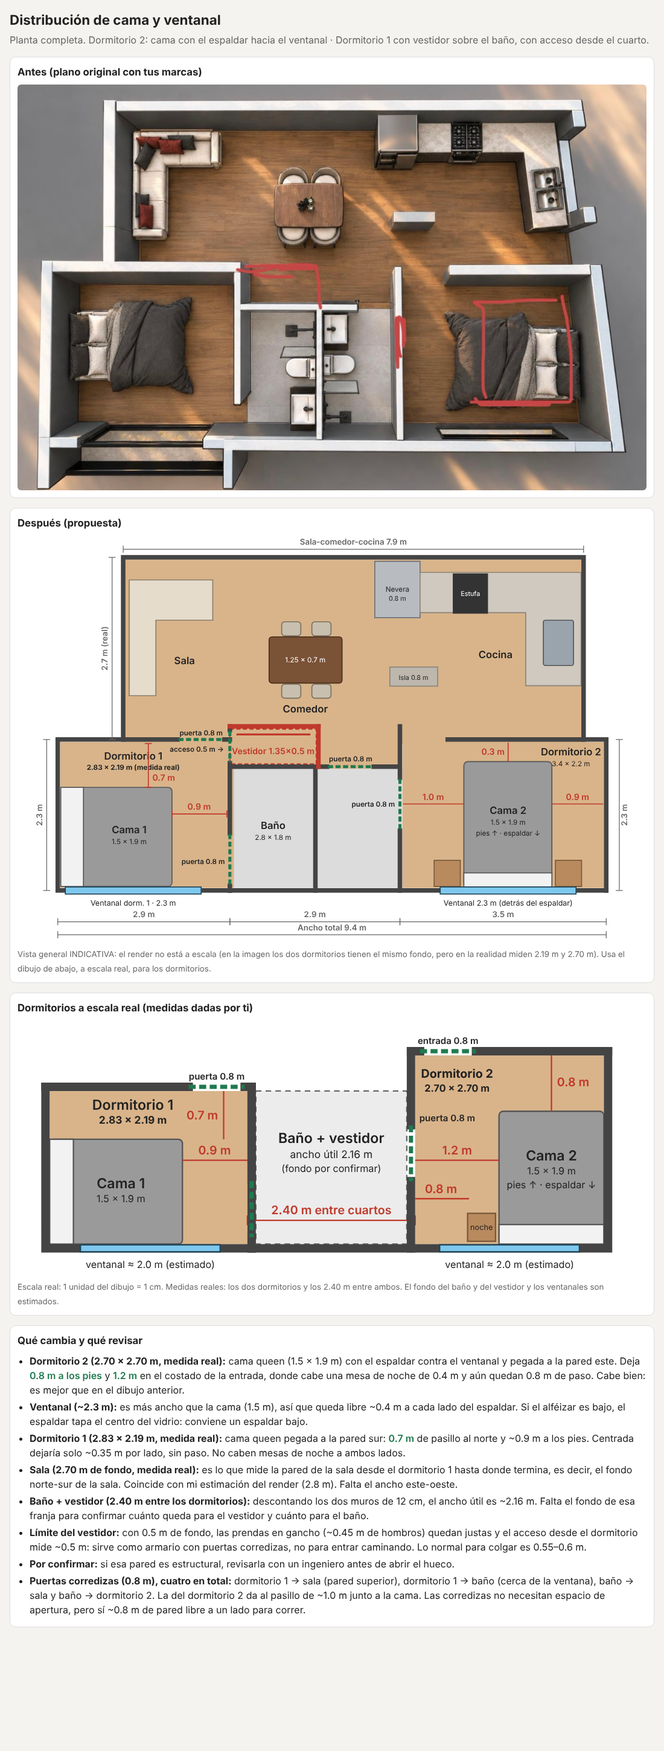
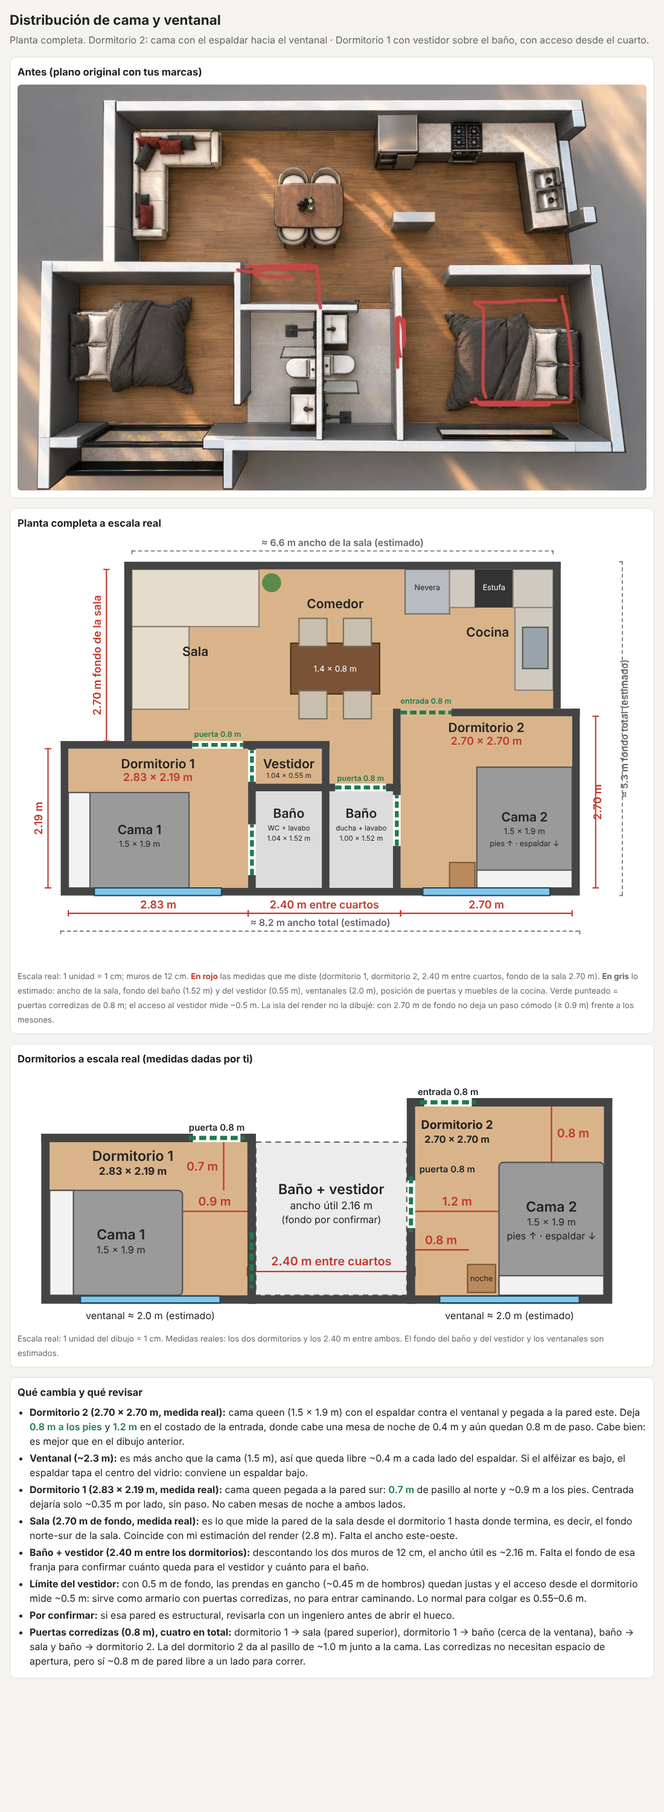
Planta completa a escala real con las medidas dadas (dormitorios, 2.40 m entre cuartos, sala 2.70 m)
Claude-Session: https://claude.ai/code/session_01FjBeNf4WjH2KP9gBJAno4x

Changed region(s): [[0.0309, 0.0, 0.9891, 0.931]]

diff --git a/index.html b/index.html
@@ -34,6 +34,8 @@
   .newwall { stroke: var(--new); stroke-width: 9; stroke-linecap: square; fill: none; }
   .dim { stroke: var(--new); stroke-width: 2; fill: none; }
   .dimt { fill: var(--new); font-size: 17px; font-weight: 600; }
+  .dimg { stroke: var(--muted); stroke-width: 1.5; stroke-dasharray: 6 4; fill: none; }
+  .dimgt { fill: var(--muted); font-weight: 600; stroke: none; }
   .dm { stroke: var(--muted); stroke-width: 1.5; fill: none; }
   .dmt { fill: var(--muted); font-size: 16px; font-weight: 600; stroke: none; }
   .lbl { font-size: 20px; font-weight: 600; }
@@ -50,136 +52,125 @@
   </section>
 
   <section class="card">
-    <h2>Después (propuesta)</h2>
-    <svg viewBox="40 8 1250 815" role="img" aria-label="Planta completa con la propuesta de distribución a la escala real del dormitorio 1">
-      <!-- Pisos -->
-      <rect x="252" y="54" width="913" height="368" fill="var(--floor)"/>
-      <rect x="462" y="410" width="338" height="64" fill="var(--floor)"/>
-      <rect x="125" y="417" width="347" height="290" fill="var(--floor)"/>
-      <rect x="470" y="470" width="335" height="237" fill="var(--bath)"/>
-      <rect x="805" y="417" width="402" height="290" fill="var(--floor)"/>
-
-      <!-- Sala: sofá en L -->
-      <path d="M262 95 H428 V175 H315 V325 H262 Z" fill="#e6dccb" stroke="#8a7d6a" stroke-width="2"/>
-      <text x="372" y="262" text-anchor="middle" class="lbl">Sala</text>
-      <!-- Comedor -->
-      <rect x="540" y="208" width="145" height="92" rx="6" fill="#7a5236" stroke="#4a2f1a" stroke-width="2"/>
-      <text x="612" y="259" text-anchor="middle" font-size="14" style="fill:#fff">1.25 × 0.7 m</text>
-      <rect x="565" y="178" width="38" height="28" rx="6" fill="#c9bfae" stroke="#7a6f5e" stroke-width="2"/>
-      <rect x="625" y="178" width="38" height="28" rx="6" fill="#c9bfae" stroke="#7a6f5e" stroke-width="2"/>
-      <rect x="565" y="302" width="38" height="28" rx="6" fill="#c9bfae" stroke="#7a6f5e" stroke-width="2"/>
-      <rect x="625" y="302" width="38" height="28" rx="6" fill="#c9bfae" stroke="#7a6f5e" stroke-width="2"/>
-      <text x="612" y="358" text-anchor="middle" class="lbl">Comedor</text>
-      <!-- Cocina -->
-      <rect x="750" y="58" width="90" height="112" fill="#b8bcc0" stroke="#6b7076" stroke-width="2"/>
-      <text x="795" y="118" text-anchor="middle" font-size="14">Nevera</text>
-      <text x="795" y="136" text-anchor="middle" font-size="13">0.8 m</text>
-      <path d="M840 80 H1160 V305 H1050 V160 H840 Z" fill="#cfc9bf" stroke="#8a847a" stroke-width="2"/>
-      <rect x="905" y="82" width="70" height="80" fill="#333"/>
-      <text x="940" y="127" text-anchor="middle" font-size="13" style="fill:#fff">Estufa</text>
-      <rect x="1085" y="175" width="60" height="90" rx="4" fill="#9aa4ad" stroke="#555" stroke-width="2"/>
-      <rect x="780" y="268" width="95" height="38" fill="#bdb7ad" stroke="#8a847a" stroke-width="2"/>
-      <text x="827" y="293" text-anchor="middle" font-size="13">Isla 0.8 m</text>
-      <text x="990" y="250" text-anchor="middle" class="lbl">Cocina</text>
-
-      <!-- Vestidor -->
-      <rect x="462" y="391" width="172" height="70" fill="var(--floor)"/>
-      <rect x="462" y="391" width="172" height="70" fill="none" stroke="var(--new)" stroke-width="3" stroke-dasharray="8 5"/>
-      <line x1="475" y1="402" x2="622" y2="402" stroke="var(--new)" stroke-width="4"/>
-      <text x="548" y="441" text-anchor="middle" class="dimt" font-size="11">Vestidor 1.35×0.5 m</text>
-
-      <!-- Dormitorio 1 (medida real 2.83 × 2.19 m): cama queen contra la pared sur -->
-      <rect x="126" y="507" width="221" height="197" rx="8" fill="#9a9a9a" stroke="#555" stroke-width="2"/>
-      <rect x="126" y="507" width="45" height="197" fill="#f2f2f2" stroke="#555" stroke-width="2"/>
-      <text x="262" y="598" text-anchor="middle" class="lbl">Cama 1</text>
-      <text x="262" y="620" text-anchor="middle" font-size="14">1.5 × 1.9 m</text>
-      <text x="270" y="452" text-anchor="middle" class="lbl">Dormitorio 1</text>
-      <text x="270" y="472" text-anchor="middle" font-size="14" font-weight="700">2.83 × 2.19 m (medida real)</text>
-      <line x1="300" y1="420" x2="300" y2="507" class="dim"/>
-      <line x1="293" y1="420" x2="307" y2="420" class="dim"/><line x1="293" y1="507" x2="307" y2="507" class="dim"/>
-      <text x="308" y="494" class="dimt" font-size="15">0.7 m</text>
-      <line x1="347" y1="560" x2="456" y2="560" class="dim"/>
-      <line x1="347" y1="553" x2="347" y2="567" class="dim"/><line x1="456" y1="553" x2="456" y2="567" class="dim"/>
-      <text x="401" y="552" text-anchor="middle" class="dimt" font-size="15">0.9 m</text>
-
-      <!-- Baño -->
-      <text x="548" y="590" text-anchor="middle" class="lbl">Baño</text>
-      <text x="548" y="611" text-anchor="middle" font-size="14">2.8 × 1.8 m</text>
-
-      <!-- Dormitorio 2: cama queen girada, espaldar hacia el ventanal -->
-      <rect x="868" y="652" width="52" height="52" fill="#b98a5e" stroke="#7a5a3a" stroke-width="2"/>
-      <rect x="1109" y="652" width="52" height="52" fill="#b98a5e" stroke="#7a5a3a" stroke-width="2"/>
-      <rect x="927" y="456" width="175" height="249" rx="8" fill="#9a9a9a" stroke="#555" stroke-width="2"/>
-      <rect x="927" y="677" width="175" height="28" fill="#f2f2f2" stroke="#555" stroke-width="2"/>
-      <text x="1015" y="560" text-anchor="middle" class="lbl">Cama 2</text>
-      <text x="1015" y="582" text-anchor="middle" font-size="14">1.5 × 1.9 m</text>
-      <text x="1015" y="603" text-anchor="middle" font-size="14">pies ↑ · espaldar ↓</text>
-      <text x="1140" y="444" text-anchor="middle" class="lbl">Dormitorio 2</text>
-      <text x="1140" y="465" text-anchor="middle" font-size="14">3.4 × 2.2 m</text>
-      <line x1="806" y1="540" x2="927" y2="540" class="dim"/><line x1="1102" y1="540" x2="1204" y2="540" class="dim"/>
-      <text x="866" y="532" text-anchor="middle" class="dimt">1.0 m</text>
-      <text x="1153" y="532" text-anchor="middle" class="dimt">0.9 m</text>
-      <line x1="1015" y1="418" x2="1015" y2="456" class="dim"/>
-      <text x="1008" y="442" text-anchor="end" class="dimt" font-size="15">0.3 m</text>
-
-      <!-- Paredes -->
-      <g class="wall">
-        <polyline points="250,412 250,50 1165,50 1165,412"/>
-        <polyline points="120,412 120,712 462,712"/>
-        <line x1="120" y1="412" x2="358" y2="412"/>
-        <line x1="451" y1="412" x2="462" y2="412"/>
-        <line x1="462" y1="386" x2="462" y2="393"/>
-        <line x1="462" y1="459" x2="462" y2="598"/>
-        <line x1="462" y1="703" x2="462" y2="712"/>
-        <line x1="462" y1="466" x2="655" y2="466"/>
-        <line x1="748" y1="466" x2="795" y2="466"/>
-        <line x1="632" y1="466" x2="632" y2="712"/>
-        <line x1="800" y1="386" x2="800" y2="488"/>
-        <line x1="800" y1="593" x2="800" y2="712"/>
-        <line x1="462" y1="712" x2="1210" y2="712"/>
-        <line x1="1210" y1="412" x2="1210" y2="712"/>
-        <line x1="895" y1="412" x2="1210" y2="412"/>
-      </g>
-      <g class="newwall">
-        <line x1="462" y1="386" x2="638" y2="386"/>
-        <line x1="638" y1="386" x2="638" y2="466"/>
-      </g>
-
-      <!-- Ventanales (2.3 m) -->
-      <rect x="880" y="705" width="270" height="14" fill="#7ec8ee" stroke="#245" stroke-width="2"/>
-      <text x="1015" y="742" text-anchor="middle" font-size="15">Ventanal 2.3 m (detrás del espaldar)</text>
-      <rect x="135" y="705" width="270" height="14" fill="#7ec8ee" stroke="#245" stroke-width="2"/>
-      <text x="270" y="742" text-anchor="middle" font-size="15">Ventanal dorm. 1 · 2.3 m</text>
-
-      <!-- Puertas corredizas (0.8 m reales) -->
-      <g stroke="var(--ok)" stroke-width="6" stroke-dasharray="10 5">
-        <line x1="360" y1="412" x2="449" y2="412"/>
-        <line x1="657" y1="466" x2="746" y2="466"/>
-        <line x1="462" y1="600" x2="462" y2="701"/>
-        <line x1="800" y1="490" x2="800" y2="591"/>
-        <line x1="462" y1="395" x2="462" y2="457"/>
-      </g>
-      <g font-size="14" font-weight="600" style="fill:var(--ok)">
-        <text x="405" y="404" text-anchor="middle">puerta 0.8 m</text>
-        <text x="702" y="456" text-anchor="middle">puerta 0.8 m</text>
-        <text x="452" y="660" text-anchor="end">puerta 0.8 m</text>
-        <text x="790" y="545" text-anchor="end">puerta 0.8 m</text>
-        <text x="450" y="436" text-anchor="end">acceso 0.5 m →</text>
-      </g>
-
-      <!-- Cotas generales -->
-      <g>
-      <line x1="250" y1="34" x2="1165" y2="34" class="dm"/><line x1="250" y1="27" x2="250" y2="41" class="dm"/><line x1="1165" y1="27" x2="1165" y2="41" class="dm"/><text x="707.5" y="25" text-anchor="middle" class="dmt">Sala-comedor-cocina 7.9 m</text>
-      <line x1="228" y1="50" x2="228" y2="412" class="dm"/><line x1="221" y1="50" x2="235" y2="50" class="dm"/><line x1="221" y1="412" x2="235" y2="412" class="dm"/><text transform="translate(219,231.0) rotate(-90)" text-anchor="middle" class="dmt">2.7 m (real)</text>
-      <line x1="98" y1="412" x2="98" y2="712" class="dm"/><line x1="91" y1="412" x2="105" y2="412" class="dm"/><line x1="91" y1="712" x2="105" y2="712" class="dm"/><text transform="translate(89,562.0) rotate(-90)" text-anchor="middle" class="dmt">2.3 m</text>
-      <line x1="1236" y1="412" x2="1236" y2="712" class="dm"/><line x1="1229" y1="412" x2="1243" y2="412" class="dm"/><line x1="1229" y1="712" x2="1243" y2="712" class="dm"/><text transform="translate(1252,562.0) rotate(-90)" text-anchor="middle" class="dmt">2.3 m</text>
-      <line x1="120" y1="774" x2="462" y2="774" class="dm"/><line x1="120" y1="767" x2="120" y2="781" class="dm"/><line x1="462" y1="767" x2="462" y2="781" class="dm"/><text x="291.0" y="765" text-anchor="middle" class="dmt">2.9 m</text>
-      <line x1="462" y1="774" x2="800" y2="774" class="dm"/><line x1="462" y1="767" x2="462" y2="781" class="dm"/><line x1="800" y1="767" x2="800" y2="781" class="dm"/><text x="631.0" y="765" text-anchor="middle" class="dmt">2.9 m</text>
-      <line x1="800" y1="774" x2="1210" y2="774" class="dm"/><line x1="800" y1="767" x2="800" y2="781" class="dm"/><line x1="1210" y1="767" x2="1210" y2="781" class="dm"/><text x="1005.0" y="765" text-anchor="middle" class="dmt">3.5 m</text>
-      <line x1="120" y1="800" x2="1210" y2="800" class="dm"/><line x1="120" y1="793" x2="120" y2="807" class="dm"/><line x1="1210" y1="793" x2="1210" y2="807" class="dm"/><text x="665.0" y="791" text-anchor="middle" class="dmt">Ancho total 9.4 m</text>
-      </g>
+    <h2>Planta completa a escala real</h2>
+    <svg viewBox="-80 0 990 680" role="img" aria-label="Planta completa a escala real">
+      <rect x="0" y="334.0" width="283" height="219" fill="var(--floor)" />
+      <rect x="523" y="283.0" width="270" height="270" fill="var(--floor)" />
+      <rect x="100" y="52.0" width="663" height="219" fill="var(--floor)" />
+      <rect x="100" y="271.0" width="411" height="51" fill="var(--floor)" />
+      <rect x="411" y="322.0" width="100" height="67" fill="var(--floor)" />
+      <rect x="523" y="271.0" width="80" height="12" fill="var(--floor)" />
+      <rect x="295" y="334.0" width="104" height="55" fill="var(--floor)" />
+      <rect x="295" y="401.0" width="104" height="152" fill="var(--bath)" />
+      <rect x="411" y="401.0" width="100" height="152" fill="var(--bath)" />
+      <rect x="0" y="403.0" width="190" height="150" fill="#9a9a9a" stroke="#555" stroke-width="2" />
+      <rect x="0" y="403.0" width="34" height="150" fill="#f2f2f2" stroke="#555" stroke-width="2" />
+      <text x="112" y="468.0" text-anchor="middle" font-size="17" class="lbl" >Cama 1</text>
+      <text x="112" y="488.0" text-anchor="middle" font-size="13" >1.5 × 1.9 m</text>
+      <rect x="643" y="363.0" width="150" height="190" fill="#9a9a9a" stroke="#555" stroke-width="2" />
+      <rect x="643" y="525.0" width="150" height="28" fill="#f2f2f2" stroke="#555" stroke-width="2" />
+      <text x="718" y="448.0" text-anchor="middle" font-size="17" class="lbl" >Cama 2</text>
+      <text x="718" y="468.0" text-anchor="middle" font-size="13" >1.5 × 1.9 m</text>
+      <text x="718" y="487.0" text-anchor="middle" font-size="12" >pies ↑ · espaldar ↓</text>
+      <rect x="600" y="513.0" width="40" height="40" fill="#b98a5e" stroke="#7a5a3a" stroke-width="2" />
+      <rect x="100" y="52.0" width="200" height="90" fill="#e6dccb" stroke="#8a7d6a" stroke-width="2" />
+      <rect x="100" y="142.0" width="90" height="130" fill="#e6dccb" stroke="#8a7d6a" stroke-width="2" />
+      <circle cx="320" cy="73.0" r="15" fill="#5c8a4a"/>
+      <rect x="350" y="168.0" width="140" height="80" fill="#7a5236" stroke="#4a2f1a" stroke-width="2" />
+      <text x="420" y="213.0" text-anchor="middle" font-size="13" style="fill:#fff">1.4 × 0.8 m</text>
+      <rect x="363" y="129.0" width="44" height="44" fill="#c9bfae" stroke="#7a6f5e" stroke-width="2" />
+      <rect x="433" y="129.0" width="44" height="44" fill="#c9bfae" stroke="#7a6f5e" stroke-width="2" />
+      <rect x="363" y="243.0" width="44" height="44" fill="#c9bfae" stroke="#7a6f5e" stroke-width="2" />
+      <rect x="433" y="243.0" width="44" height="44" fill="#c9bfae" stroke="#7a6f5e" stroke-width="2" />
+      <rect x="530" y="52.0" width="70" height="70" fill="#b8bcc0" stroke="#6b7076" stroke-width="2" />
+      <text x="565" y="85.0" text-anchor="middle" font-size="12" >Nevera</text>
+      <rect x="600" y="52.0" width="40" height="60" fill="#cfc9bf" stroke="#8a847a" stroke-width="2" />
+      <rect x="640" y="52.0" width="60" height="60" fill="#333" />
+      <text x="670" y="85.0" text-anchor="middle" font-size="12" style="fill:#fff">Estufa</text>
+      <rect x="700" y="52.0" width="63" height="60" fill="#cfc9bf" stroke="#8a847a" stroke-width="2" />
+      <rect x="703" y="112.0" width="60" height="130" fill="#cfc9bf" stroke="#8a847a" stroke-width="2" />
+      <rect x="715" y="143.0" width="40" height="65" fill="#9aa4ad" stroke="#555" stroke-width="2" />
+      <rect x="-12" y="553.0" width="817" height="12" fill="var(--wall)" />
+      <rect x="-12" y="322.0" width="12" height="231" fill="var(--wall)" />
+      <rect x="-12" y="322.0" width="207" height="12" fill="var(--wall)" />
+      <rect x="275" y="322.0" width="136" height="12" fill="var(--wall)" />
+      <rect x="283" y="533.0" width="12" height="20" fill="var(--wall)" />
+      <rect x="283" y="386.0" width="12" height="67" fill="var(--wall)" />
+      <rect x="283" y="322.0" width="12" height="14" fill="var(--wall)" />
+      <rect x="399" y="322.0" width="12" height="231" fill="var(--wall)" />
+      <rect x="283" y="389.0" width="137" height="12" fill="var(--wall)" />
+      <rect x="500" y="389.0" width="23" height="12" fill="var(--wall)" />
+      <rect x="511" y="487.0" width="12" height="66" fill="var(--wall)" />
+      <rect x="511" y="271.0" width="12" height="136" fill="var(--wall)" />
+      <rect x="603" y="271.0" width="202" height="12" fill="var(--wall)" />
+      <rect x="793" y="271.0" width="12" height="282" fill="var(--wall)" />
+      <rect x="88" y="40.0" width="12" height="282" fill="var(--wall)" />
+      <rect x="88" y="40.0" width="687" height="12" fill="var(--wall)" />
+      <rect x="763" y="40.0" width="12" height="231" fill="var(--wall)" />
+      <rect x="41" y="553.0" width="200" height="12" fill="#7ec8ee" stroke="#245" stroke-width="2" />
+      <rect x="558" y="553.0" width="200" height="12" fill="#7ec8ee" stroke="#245" stroke-width="2" />
+      <line x1="195" y1="328.0" x2="275" y2="328.0" stroke="var(--ok)" stroke-width="6" stroke-dasharray="10 5"/>
+      <line x1="289" y1="533.0" x2="289" y2="453.0" stroke="var(--ok)" stroke-width="6" stroke-dasharray="10 5"/>
+      <line x1="289" y1="386.0" x2="289" y2="336.0" stroke="var(--ok)" stroke-width="6" stroke-dasharray="10 5"/>
+      <line x1="420" y1="395.0" x2="500" y2="395.0" stroke="var(--ok)" stroke-width="6" stroke-dasharray="10 5"/>
+      <line x1="517" y1="487.0" x2="517" y2="407.0" stroke="var(--ok)" stroke-width="6" stroke-dasharray="10 5"/>
+      <line x1="523" y1="277.0" x2="603" y2="277.0" stroke="var(--ok)" stroke-width="6" stroke-dasharray="10 5"/>
+      <text x="235" y="315.0" text-anchor="middle" font-size="12" style="fill:var(--ok)" font-weight="600">puerta 0.8 m</text>
+      <text x="460" y="385.0" text-anchor="middle" font-size="12" style="fill:var(--ok)" font-weight="600">puerta 0.8 m</text>
+      <text x="563" y="263.0" text-anchor="middle" font-size="12" style="fill:var(--ok)" font-weight="600">entrada 0.8 m</text>
+      <text x="141" y="365.0" text-anchor="middle" font-size="18" class="lbl" >Dormitorio 1</text>
+      <text x="141" y="385.0" text-anchor="middle" font-size="15" class="dimt" >2.83 × 2.19 m</text>
+      <text x="658" y="308.0" text-anchor="middle" font-size="18" class="lbl" >Dormitorio 2</text>
+      <text x="658" y="328.0" text-anchor="middle" font-size="15" class="dimt" >2.70 × 2.70 m</text>
+      <text x="347" y="443.0" text-anchor="middle" font-size="15" class="lbl" >Baño</text>
+      <text x="347" y="463.0" text-anchor="middle" font-size="11" >WC + lavabo</text>
+      <text x="347" y="479.0" text-anchor="middle" font-size="11" >1.04 × 1.52 m</text>
+      <text x="461" y="443.0" text-anchor="middle" font-size="15" class="lbl" >Baño</text>
+      <text x="461" y="463.0" text-anchor="middle" font-size="11" >ducha + lavabo</text>
+      <text x="461" y="479.0" text-anchor="middle" font-size="11" >1.00 × 1.52 m</text>
+      <text x="347" y="365.0" text-anchor="middle" font-size="12" class="lbl" >Vestidor</text>
+      <text x="347" y="380.0" text-anchor="middle" font-size="11" >1.04 × 0.55 m</text>
+      <text x="200" y="188.0" text-anchor="middle" font-size="18" class="lbl" >Sala</text>
+      <text x="420" y="113.0" text-anchor="middle" font-size="16" class="lbl" >Comedor</text>
+      <text x="660" y="158.0" text-anchor="middle" font-size="18" class="lbl" >Cocina</text>
+      <line x1="0" y1="593.0" x2="283" y2="593.0" class="dim" />
+      <line x1="0" y1="598.0" x2="0" y2="588.0" class="dim" />
+      <line x1="283" y1="598.0" x2="283" y2="588.0" class="dim" />
+      <text x="141.5" y="585.0" text-anchor="middle" font-size="15" class="dimt" >2.83 m</text>
+      <line x1="283" y1="593.0" x2="523" y2="593.0" class="dim" />
+      <line x1="283" y1="598.0" x2="283" y2="588.0" class="dim" />
+      <line x1="523" y1="598.0" x2="523" y2="588.0" class="dim" />
+      <text x="403.0" y="585.0" text-anchor="middle" font-size="15" class="dimt" >2.40 m entre cuartos</text>
+      <line x1="523" y1="593.0" x2="793" y2="593.0" class="dim" />
+      <line x1="523" y1="598.0" x2="523" y2="588.0" class="dim" />
+      <line x1="793" y1="598.0" x2="793" y2="588.0" class="dim" />
+      <text x="658.0" y="585.0" text-anchor="middle" font-size="15" class="dimt" >2.70 m</text>
+      <line x1="-12" y1="621.0" x2="805" y2="621.0" class="dimg" />
+      <line x1="-12" y1="626.0" x2="-12" y2="616.0" class="dimg" />
+      <line x1="805" y1="626.0" x2="805" y2="616.0" class="dimg" />
+      <text x="396.5" y="613.0" text-anchor="middle" font-size="15" class="dimgt" >≈ 8.2 m ancho total (estimado)</text>
+      <line x1="-32" y1="553.0" x2="-32" y2="334.0" class="dim" />
+      <line x1="-37" y1="553.0" x2="-27" y2="553.0" class="dim" />
+      <line x1="-37" y1="334.0" x2="-27" y2="334.0" class="dim" />
+      <text transform="translate(-41,443.5) rotate(-90)" text-anchor="middle" font-size="15" class="dimt">2.19 m</text>
+      <line x1="830" y1="553.0" x2="830" y2="283.0" class="dim" />
+      <line x1="825" y1="553.0" x2="835" y2="553.0" class="dim" />
+      <line x1="825" y1="283.0" x2="835" y2="283.0" class="dim" />
+      <text transform="translate(839,418.0) rotate(-90)" text-anchor="middle" font-size="15" class="dimt">2.70 m</text>
+      <line x1="60" y1="322.0" x2="60" y2="52.0" class="dim" />
+      <line x1="55" y1="322.0" x2="65" y2="322.0" class="dim" />
+      <line x1="55" y1="52.0" x2="65" y2="52.0" class="dim" />
+      <text transform="translate(51,187.0) rotate(-90)" text-anchor="middle" font-size="15" class="dimt">2.70 m fondo de la sala</text>
+      <line x1="100" y1="23.0" x2="763" y2="23.0" class="dimg" />
+      <line x1="100" y1="28.0" x2="100" y2="18.0" class="dimg" />
+      <line x1="763" y1="28.0" x2="763" y2="18.0" class="dimg" />
+      <text x="431.5" y="15.0" text-anchor="middle" font-size="15" class="dimgt" >≈ 6.6 m ancho de la sala (estimado)</text>
+      <line x1="872" y1="565.0" x2="872" y2="40.0" class="dimg" />
+      <line x1="867" y1="565.0" x2="877" y2="565.0" class="dimg" />
+      <line x1="867" y1="40.0" x2="877" y2="40.0" class="dimg" />
+      <text transform="translate(881,302.5) rotate(-90)" text-anchor="middle" font-size="15" class="dimgt">≈ 5.3 m fondo total (estimado)</text>
     </svg>
-    <small>Vista general INDICATIVA: el render no está a escala (en la imagen los dos dormitorios tienen el mismo fondo, pero en la realidad miden 2.19 m y 2.70 m). Usa el dibujo de abajo, a escala real, para los dormitorios.</small>
+    <small>Escala real: 1 unidad = 1 cm; muros de 12 cm. <b style="color:var(--new)">En rojo</b> las medidas que me diste (dormitorio 1, dormitorio 2, 2.40 m entre cuartos, fondo de la sala 2.70 m). <b>En gris</b> lo estimado: ancho de la sala, fondo del baño (1.52 m) y del vestidor (0.55 m), ventanales (2.0 m), posición de puertas y muebles de la cocina. Verde punteado = puertas corredizas de 0.8 m; el acceso al vestidor mide ~0.5 m. La isla del render no la dibujé: con 2.70 m de fondo no deja un paso cómodo (≥ 0.9 m) frente a los mesones.</small>
   </section>
 
   <section class="card">

diff --git a/render/generar_planta_escala_real.py b/render/generar_planta_escala_real.py
@@ -1,0 +1,99 @@
+# Planta completa a escala real. Unidades: cm. x hacia el este, y hacia el norte; origen = esquina SO interior del dormitorio 1.
+TOP = 553.0
+def Y(y): return TOP - y
+out = []
+def rect(x0, y0, x1, y1, fill, stroke=None, sw=0, extra=""):
+    st = f' stroke="{stroke}" stroke-width="{sw}"' if stroke else ""
+    out.append(f'<rect x="{x0}" y="{Y(y1)}" width="{x1-x0}" height="{y1-y0}" fill="{fill}"{st} {extra}/>')
+def text(x, y, s, size=14, cls="", anchor="middle", extra="", weight=None):
+    w = f' font-weight="{weight}"' if weight else ""
+    c = f' class="{cls}"' if cls else ""
+    out.append(f'<text x="{x}" y="{Y(y)}" text-anchor="{anchor}" font-size="{size}"{w}{c} {extra}>{s}</text>')
+def line(x0, y0, x1, y1, cls="dim", extra=""):
+    out.append(f'<line x1="{x0}" y1="{Y(y0)}" x2="{x1}" y2="{Y(y1)}" class="{cls}" {extra}/>')
+def hdim(x0, x1, y, label, real=True, off=-8):
+    cl = "dim" if real else "dimg"; tc = "dimt" if real else "dimgt"
+    line(x0, y, x1, y, cl); line(x0, y-5, x0, y+5, cl); line(x1, y-5, x1, y+5, cl)
+    text((x0+x1)/2, y-off*-1 if False else y+8, label, 15, tc)
+def vdim(x, y0, y1, label, real=True, side=-1):
+    cl = "dim" if real else "dimg"; tc = "dimt" if real else "dimgt"
+    line(x, y0, x, y1, cl); line(x-5, y0, x+5, y0, cl); line(x-5, y1, x+5, y1, cl)
+    out.append(f'<text transform="translate({x+side*9},{Y((y0+y1)/2)}) rotate(-90)" text-anchor="middle" font-size="15" class="{tc}">{label}</text>')
+
+FLOOR, BATH, WALL = "var(--floor)", "var(--bath)", "var(--wall)"
+# ---- pisos
+rect(0, 0, 283, 219, FLOOR)                       # dormitorio 1
+rect(523, 0, 793, 270, FLOOR)                     # dormitorio 2
+rect(100, 282, 763, 501, FLOOR)                   # sala-cocina
+rect(100, 231, 511, 282, FLOOR)
+rect(411, 164, 511, 231, FLOOR)                   # hueco sobre el baño
+rect(523, 270, 603, 282, FLOOR)                   # entrada al dormitorio 2
+rect(295, 164, 399, 219, FLOOR)                   # vestidor
+rect(295, 0, 399, 152, BATH); rect(411, 0, 511, 152, BATH)   # baño (2 módulos)
+# ---- muebles
+rect(0, 0, 190, 150, "#9a9a9a", "#555", 2); rect(0, 0, 34, 150, "#f2f2f2", "#555", 2)       # cama 1
+text(112, 85, "Cama 1", 17, "lbl"); text(112, 65, "1.5 × 1.9 m", 13)
+rect(643, 0, 793, 190, "#9a9a9a", "#555", 2); rect(643, 0, 793, 28, "#f2f2f2", "#555", 2)   # cama 2
+text(718, 105, "Cama 2", 17, "lbl"); text(718, 85, "1.5 × 1.9 m", 13); text(718, 66, "pies ↑ · espaldar ↓", 12)
+rect(600, 0, 640, 40, "#b98a5e", "#7a5a3a", 2)                                              # mesa de noche
+rect(100, 411, 300, 501, "#e6dccb", "#8a7d6a", 2); rect(100, 281, 190, 411, "#e6dccb", "#8a7d6a", 2)   # sofá L
+out.append(f'<circle cx="320" cy="{Y(480)}" r="15" fill="#5c8a4a"/>')
+rect(350, 305, 490, 385, "#7a5236", "#4a2f1a", 2); text(420, 340, "1.4 × 0.8 m", 13, extra='style="fill:#fff"')
+for (cx0, cy0) in [(363, 380), (433, 380), (363, 266), (433, 266)]:
+    rect(cx0, cy0, cx0+44, cy0+44, "#c9bfae", "#7a6f5e", 2)
+rect(530, 431, 600, 501, "#b8bcc0", "#6b7076", 2); text(565, 468, "Nevera", 12)
+rect(600, 441, 640, 501, "#cfc9bf", "#8a847a", 2); rect(640, 441, 700, 501, "#333"); text(670, 468, "Estufa", 12, extra='style="fill:#fff"')
+rect(700, 441, 763, 501, "#cfc9bf", "#8a847a", 2); rect(703, 311, 763, 441, "#cfc9bf", "#8a847a", 2)
+rect(715, 345, 755, 410, "#9aa4ad", "#555", 2)
+# ---- paredes
+def W(x0, y0, x1, y1): rect(x0, y0, x1, y1, WALL)
+W(-12, -12, 805, 0)                                   # sur
+W(-12, 0, 0, 231)                                     # dorm 1 oeste
+W(-12, 219, 195, 231); W(275, 219, 411, 231)          # norte dorm 1 y vestidor (puerta 195-275)
+W(283, 0, 295, 20); W(283, 100, 295, 167); W(283, 217, 295, 231)   # este dorm 1 (puerta baño 20-100, vestidor 167-217)
+W(399, 0, 411, 231)                                   # divisor baño / este vestidor
+W(283, 152, 420, 164); W(500, 152, 523, 164)          # norte del baño (puerta 420-500)
+W(511, 0, 523, 66); W(511, 146, 523, 282)             # oeste dorm 2 (puerta 66-146)
+W(603, 270, 805, 282)                                 # norte dorm 2 (entrada 523-603)
+W(793, 0, 805, 282)                                   # este dorm 2
+W(88, 231, 100, 513); W(88, 501, 775, 513); W(763, 282, 775, 513)   # sala
+# ---- ventanales (estimados 2.0 m)
+rect(41, -12, 241, 0, "#7ec8ee", "#245", 2); rect(558, -12, 758, 0, "#7ec8ee", "#245", 2)
+# ---- puertas corredizas 0.8 m
+G = 'stroke="var(--ok)" stroke-width="6" stroke-dasharray="10 5"'
+def door(x0, y0, x1, y1): out.append(f'<line x1="{x0}" y1="{Y(y0)}" x2="{x1}" y2="{Y(y1)}" {G}/>')
+door(195, 225, 275, 225); door(289, 20, 289, 100); door(289, 167, 289, 217)
+door(420, 158, 500, 158); door(517, 66, 517, 146); door(523, 276, 603, 276)
+GT = 'style="fill:var(--ok)" font-weight="600"'
+text(235, 238, "puerta 0.8 m", 12, extra=GT); 
+text(460, 168, "puerta 0.8 m", 12, extra=GT); 
+text(563, 290, "entrada 0.8 m", 12, extra=GT)
+# ---- rótulos
+text(141, 188, "Dormitorio 1", 18, "lbl"); text(141, 168, "2.83 × 2.19 m", 15, "dimt")
+text(658, 245, "Dormitorio 2", 18, "lbl"); text(658, 225, "2.70 × 2.70 m", 15, "dimt")
+text(347, 110, "Baño", 15, "lbl"); text(347, 90, "WC + lavabo", 11); text(347, 74, "1.04 × 1.52 m", 11)
+text(461, 110, "Baño", 15, "lbl"); text(461, 90, "ducha + lavabo", 11); text(461, 74, "1.00 × 1.52 m", 11)
+text(347, 188, "Vestidor", 12, "lbl"); text(347, 173, "1.04 × 0.55 m", 11)
+text(200, 365, "Sala", 18, "lbl"); text(420, 440, "Comedor", 16, "lbl"); text(660, 395, "Cocina", 18, "lbl")
+# ---- cotas reales (rojo) y estimadas (gris)
+hdim(0, 283, -40, "2.83 m"); hdim(283, 523, -40, "2.40 m entre cuartos"); hdim(523, 793, -40, "2.70 m")
+hdim(-12, 805, -68, "≈ 8.2 m ancho total (estimado)", real=False)
+vdim(-32, 0, 219, "2.19 m"); vdim(830, 0, 270, "2.70 m", side=1)
+vdim(60, 231, 501, "2.70 m fondo de la sala"); hdim(100, 763, 530, "≈ 6.6 m ancho de la sala (estimado)", real=False)
+vdim(872, -12, 513, "≈ 5.3 m fondo total (estimado)", real=False, side=1)
+svg = ('<svg viewBox="-80 0 990 680" role="img" aria-label="Planta completa a escala real">\n      '
+       + "\n      ".join(out) + '\n    </svg>')
+open("/tmp/claude-0/-home-user-Pulso-app/6cc6d74c-1a3a-5158-89df-e971915a7f8d/scratchpad/planta.svg.txt", "w").write(svg)
+
+p = "/home/user/Pulso-app/index.html"
+s = open(p, encoding="utf-8").read()
+a = s.index('<section class="card">\n    <h2>Planta completa a escala real</h2>')
+b = s.index('</section>', a) + len('</section>')
+new = ('<section class="card">\n    <h2>Planta completa a escala real</h2>\n    ' + svg +
+       '\n    <small>Escala real: 1 unidad = 1 cm; muros de 12 cm. <b style="color:var(--new)">En rojo</b> las medidas que me diste '
+       '(dormitorio 1, dormitorio 2, 2.40 m entre cuartos, fondo de la sala 2.70 m). <b>En gris</b> lo estimado: ancho de la sala, '
+       'fondo del baño (1.52 m) y del vestidor (0.55 m), ventanales (2.0 m), posición de puertas y muebles de la cocina. '
+       'Verde punteado = puertas corredizas de 0.8 m; el acceso al vestidor mide ~0.5 m. La isla del render no la dibujé: con 2.70 m de fondo no deja un paso cómodo (≥ 0.9 m) frente a los mesones.</small>\n  </section>')
+s = s[:a] + new + s[b:]
+open(p, "w", encoding="utf-8").write(s)
+print("ok", len(out))
